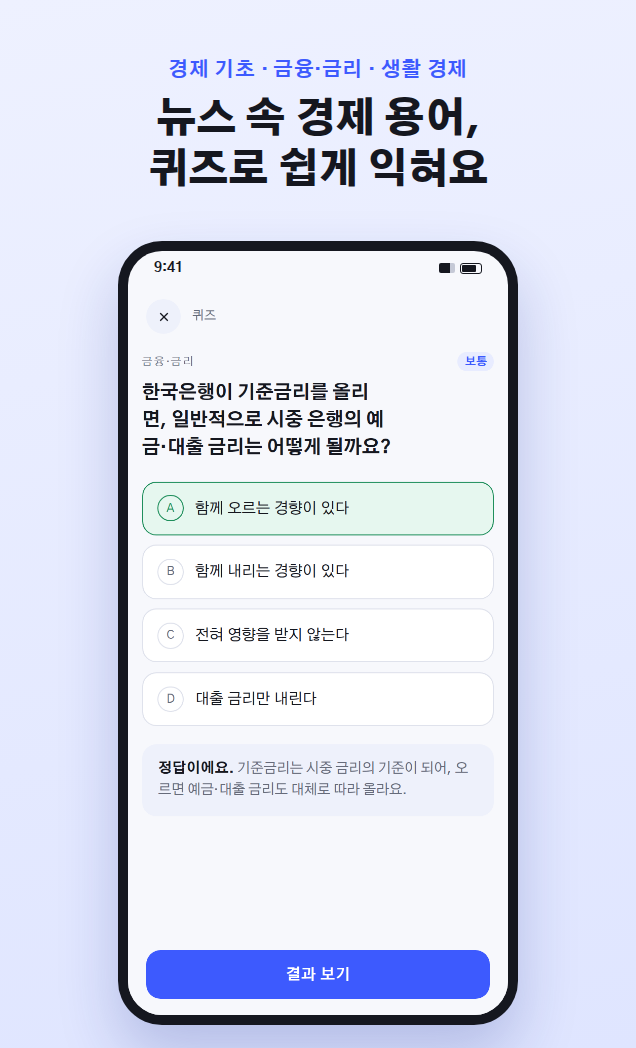
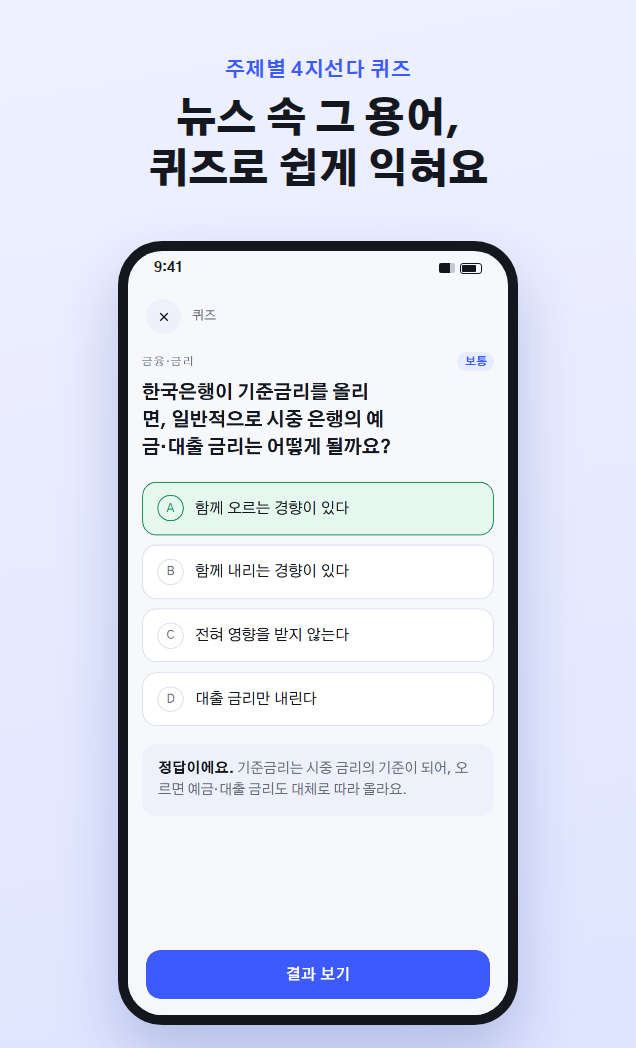
feat: 로고를 All-That 글자로 바꾸고 스토어 문구에서 '경제' 단어 제거
경제만 다루는 앱이 아니므로 로고·스크린샷 문구·검색 키워드에서 '경제'를 뺀다.
앱 안의 주제 이름은 실제 콘텐츠라 그대로 둔다.

Claude-Session: https://claude.ai/code/session_0167qrMiYYyzgzxaqpRtzW3a

Changed region(s): [[0.239, 0.0305, 0.7469, 0.1527]]

diff --git a/requirements.md b/requirements.md
@@ -7,7 +7,7 @@
 - 플랫폼: 토스(Toss) 미니앱 (AppsInToss, Web/WebView)
 - 저장소: [github.com/JackieJusuk/All-That-Quiz-Toss](https://github.com/JackieJusuk/All-That-Quiz-Toss) (2026-10-02 `EconomyQuiz-toss`에서 이름 변경 — 앱 이름 "올댓퀴즈"에 맞춤)
 - 운영 서버: Render (`https://all-that-quiz.onrender.com`, `render.yaml` 기준 — 서비스 생성 전)
-- appName: `all-that-quiz` (`intoss://all-that-quiz`, 2026-10-02 콘솔 등록. 처음 정한 `economy-quiz`는 이미 사용 중이라 변경). "All that quiz = 퀴즈의 모든 것"이라는 넓은 이름이라, 지금은 경제 주제만 있지만 나중에 다른 주제를 추가해도 이름과 어긋나지 않는다 — 대신 앱 설명/문구에서 "경제 퀴즈"임을 드러낸다
+- appName: `all-that-quiz` (`intoss://all-that-quiz`, 2026-10-02 콘솔 등록. 처음 정한 `economy-quiz`는 이미 사용 중이라 변경). "All that quiz = 퀴즈의 모든 것"이라는 넓은 이름이라, 지금은 경제 주제만 있지만 나중에 다른 주제를 추가해도 이름과 어긋나지 않는다. **경제만 다루는 앱이 아니므로 로고·스토어 문구·검색 키워드 등 앱을 소개하는 문구에는 "경제"라는 단어를 쓰지 않는다**(2026-10-02 사용자 지시). 앱 안의 주제 이름("경제 기초", "생활 경제")은 실제 콘텐츠라 그대로 둔다
 
 > **포크 이력(2026-10-02)**: 이 저장소는 [CashQuiz-toss](https://github.com/JackieJusuk/CashQuiz-toss)(투자 퀴즈, 포인트퀴즈)의 `master` 전체 히스토리를 그대로 복제한 뒤, 같은 형식(광고 게이팅·포인트·등급·랭킹·친구 초대)으로 **경제 상식 퀴즈**를 만들기 위해 주제/브랜딩/배포 대상을 바꾼 것이다. 아래 §3 이후의 구현 이력·버그 사례·심사 반려 이력(§3.14, §3.15, §11.1 등)은 CashQuiz에서 겪은 내용을 교훈으로 그대로 물려받은 것이며, 코드도 같은 구조다. 올댓퀴즈 전용 인프라(Render 서비스, Supabase 프로젝트, 앱인토스 앱/광고 그룹)는 **CashQuiz와 완전히 분리**한다 — 같은 DB/서버를 공유하면 포인트·랭킹·문제 풀이 섞인다. 설정 체크리스트는 §12.0.
 >
@@ -321,7 +321,7 @@
 3. **Render에 백엔드 서비스 생성** — New > Blueprint로 이 저장소 선택(`render.yaml`, 서비스명 `all-that-quiz`) → 환경변수 `ANTHROPIC_API_KEY`(CashQuiz와 같은 키 사용 가능), `ANTHROPIC_WORKSPACE_ID`(필요 시), `SUPABASE_URL`, `SUPABASE_SERVICE_ROLE_KEY` 입력. 서비스명이 이미 쓰이고 있어 URL이 달라지면 `.env.production`의 `VITE_API_BASE`를 실제 URL로 바꾼다
 4. **콘솔에서 리워드 광고 그룹 생성** → ID를 `.env.production`의 `VITE_AD_GROUP_ID`에 반영
 5. 위 값이 확정되면 `npm run build`로 `.ait` 생성 → 콘솔에 업로드 → QR로 실기기 테스트
-6. ~~앱 아이콘/스토어 스크린샷 올댓퀴즈로 교체~~ — **제작 완료(2026-10-02), 콘솔 업로드는 사용자가 진행**: `store-assets/`에 로고(`logo.png`, 600×600 각진 정사각형·배경 꽉 채움 — 앱인토스 UI/UX 가이드 기준), 다크모드 로고(`logo_dark.png`, 선택), 세로형 스크린샷 4장(636×1048: 홈·퀴즈·결과·랭킹), 가로형 1장(`screenshot_wide.png`, 1504×741). 스크린샷은 목업이 아니라 **실제 앱(vite dev)을 목업 API 응답으로 렌더링**한 화면이다(백엔드 미구축 상태라 데이터는 예시값). 현금화 관련 내용은 넣지 않음(§13 원칙 3). 앱 검색 키워드 제안: 경제퀴즈, 경제상식, 금융상식, 금리, 환율, 재테크, 퀴즈, 포인트, 연말정산, 상식퀴즈
+6. ~~앱 아이콘/스토어 스크린샷 올댓퀴즈로 교체~~ — **제작 완료(2026-10-02), 콘솔 업로드는 사용자가 진행**: `store-assets/`에 로고(`logo.png`, 600×600 각진 정사각형·배경 꽉 채움 — 앱인토스 UI/UX 가이드 기준. Q 모양 돋보기 안에 "All-That" 글자), 다크모드 로고(`logo_dark.png`, 선택), 세로형 스크린샷 4장(636×1048: 홈·퀴즈·결과·랭킹), 가로형 1장(`screenshot_wide.png`, 1504×741). 스크린샷은 목업이 아니라 **실제 앱(vite dev)을 목업 API 응답으로 렌더링**한 화면이다(백엔드 미구축 상태라 데이터는 예시값). 현금화 관련 내용은 넣지 않음(§13 원칙 3). 앱 검색 키워드 제안("경제" 단어 제외): 퀴즈, 상식퀴즈, 상식, 퀴즈앱, 매일퀴즈, 금융상식, 금리, 환율, 재테크, 포인트
 7. 실제 Render URL·appName이 위 계획과 달라지면 System Architecture Diagram(§6)도 갱신(§13 원칙 19)
 
 이하 항목은 CashQuiz에서 물려받은 과제로, 올댓퀴즈에도 동일하게 적용된다:
